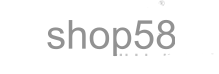
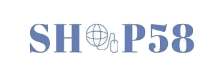
修复版权，首页广告，优惠券使用状态

diff --git a/src/views/home/Index.vue b/src/views/home/Index.vue
@@ -1,7 +1,7 @@
 <template>
   <div class="index" v-cloak>
     <div class="header acea-row row-center-wrapper">
-      <div class="logo" v-if="false"><img :src="logoUrl" /></div>
+      <div class="logo"><img :src="logoUrl" /></div>
       <router-link :to="'/search'" class="search acea-row row-middle">
         <span class="iconfont icon-xiazai5"></span>搜索商品
       </router-link>
@@ -183,7 +183,13 @@
       </div>
     </div>
     <div v-if="lovely.length > 0">
-      <div class="adver" v-for="(item, index) in lovely" :key="index">
+      <div
+        class="adver"
+        v-for="(item, index) in lovely.map((item, idx) => {
+          if (idx === 0) return item;
+        })"
+        :key="index"
+      >
         <img :src="item.img" />
       </div>
     </div>

diff --git a/src/assets/css/style.css b/src/assets/css/style.css
@@ -301,7 +301,7 @@ body{font-size:0.28rem;background-color:#f5f5f5;transition: background-color .3s
 .index .hotList .list .item .name{font-size:0.26rem;color:#282828;margin-top:0.12rem;}
 .index .hotList .list .item .money{font-size:0.2rem;font-weight:bold;margin-top: 0.02rem;}
 .index .hotList .list .item .money .num{font-size:0.28rem;}
-.index .adver{width:100%;height:1.8rem;margin-top:0.37rem;}
+.index .adver{width:100%;height:auto;margin-top:0.37rem;}
 .index .adver img{width:100%;height:100%;display:block;}
 .index .wrapper .newProducts{white-space:nowrap;padding:0 0.3rem;margin:0.35rem 0 0.42rem 0;overflow:hidden;}
 .index .wrapper .newProducts .swiper-slide{display:inline-block;width:2.43rem;margin-right:0.2rem;border:1px solid #eee;

diff --git a/src/views/order/MyOrder.vue b/src/views/order/MyOrder.vue
@@ -72,7 +72,7 @@
               v-if="order.bargain_id > 0"
               >砍价</span
             >
-            {{ order._add_time }}
+            {{ order.add_time }}
           </div>
           <div class="font-color-red">{{ getStatus(order) }}</div>
         </div>
@@ -228,7 +228,7 @@ import { mapGetters } from "vuex";
 import { isWeixin } from "@utils";
 
 const STATUS = [
-  "待付款",
+  "待付款1",
   "待发货",
   "待收货",
   "待评价",
@@ -237,7 +237,7 @@ const STATUS = [
   "",
   "",
   "",
-  "待付款"
+  "待付款1"
 ];
 
 const NAME = "MyOrder";

diff --git a/src/views/user/coupon/UserCoupon.vue b/src/views/user/coupon/UserCoupon.vue
@@ -15,7 +15,7 @@
           <div class="data acea-row row-between-wrapper">
             <div v-if="item._end_time === 0">不限时</div>
             <div v-else>{{ item._add_time }}-{{ item._end_time }}</div>
-            <div class="bnt bg-color-red" v-if="item._type === 1">
+            <div class="bnt bg-color-red" v-if="item.status === 0">
               {{ item._msg }}
             </div>
             <div class="bnt gray" v-else>{{ item._msg }}</div>
